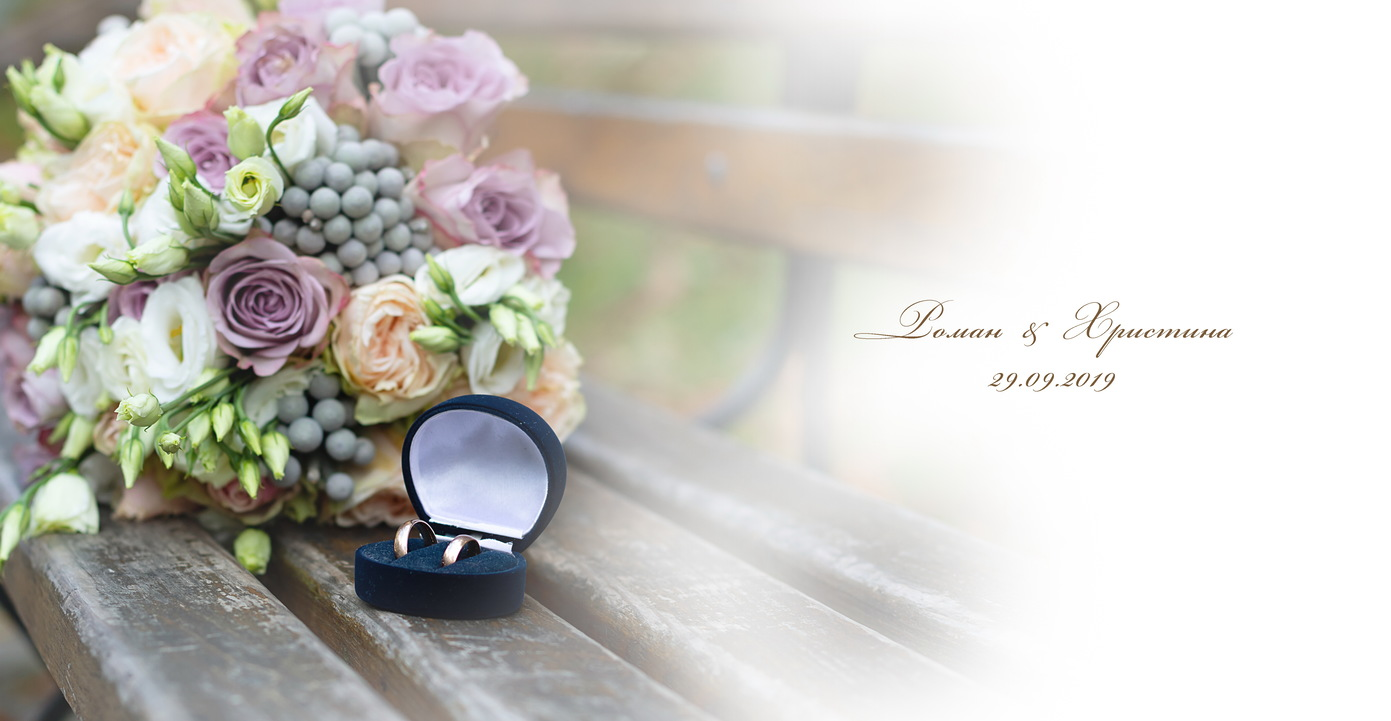
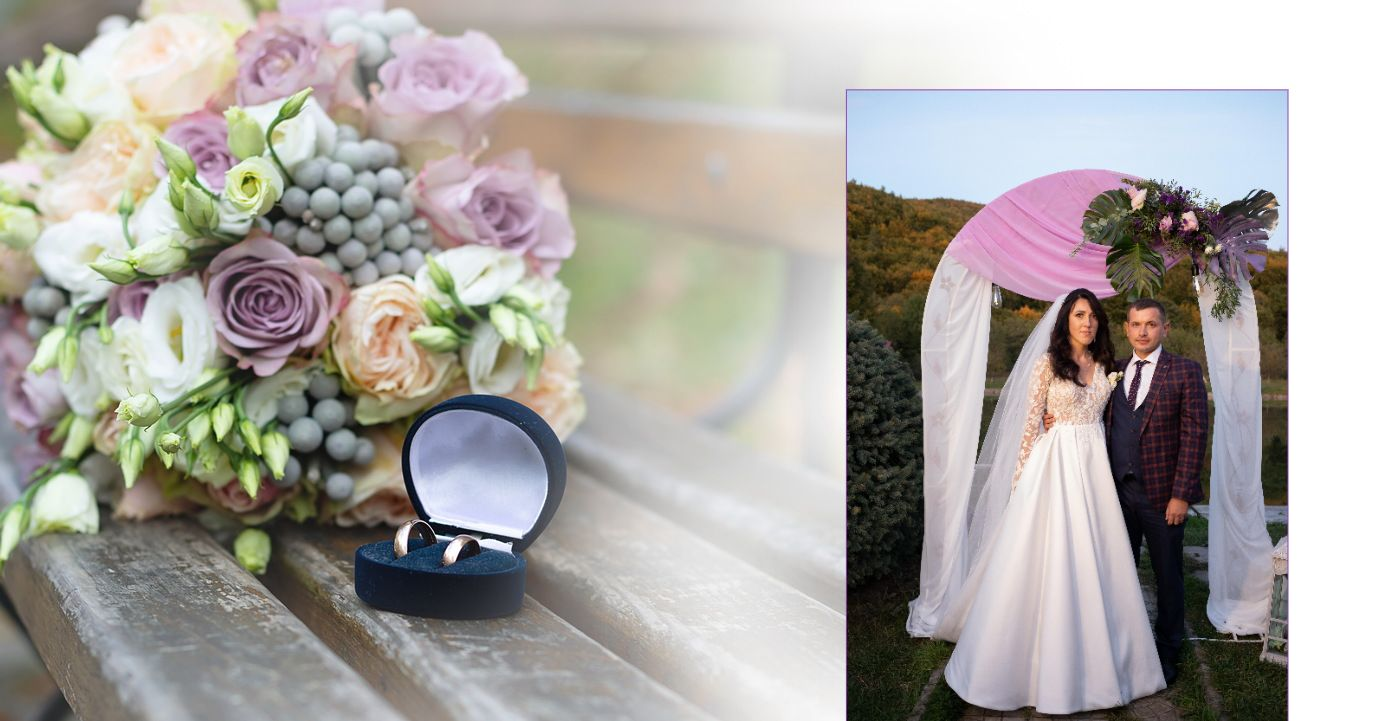
fix error

Changed region(s): [[0.5873, 0.1221, 0.9274, 1.0]]

diff --git a/index.min.html b/index.min.html
@@ -1,1 +1,1 @@
-<!DOCTYPE html><html lang="en"><head><meta charset="UTF-8"/><meta name="viewport"content="width=device-width, initial-scale=1.0"/><title>Khrystyna & Roman 29.09.2019</title></head><body><div class="flipbook-viewport"><div class="container"><div class="flipbook"><div class="page"data-background-image-url="pages/resize/1.jpg"></div><div class="double"data-background-image-url="pages/resize/01.jpg"></div><div class="double"data-background-image-url="pages/resize/02.jpg"></div><div class="double"data-background-image-url="pages/resize/03.jpg"></div><div class="double"data-background-image-url="pages/resize/04.jpg"></div><div class="double"data-background-image-url="pages/resize/05.jpg"></div><div class="double"data-background-image-url="pages/resize/06.jpg"></div><div class="double"data-background-image-url="pages/resize/07.jpg"></div><div class="double"data-background-image-url="pages/resize/08.jpg"></div><div class="double"data-background-image-url="pages/resize/09.jpg"></div><div class="double"data-background-image-url="pages/resize/10.jpg"></div><div class="double"data-background-image-url="pages/resize/11.jpg"></div><div class="double"data-background-image-url="pages/resize/12.jpg"></div><div class="double"data-background-image-url="pages/resize/13.jpg"></div><div class="double"data-background-image-url="pages/resize/14.jpg"></div><div class="double"data-background-image-url="pages/resize/15.jpg"></div><div class="double"data-background-image-url="pages/resize/16.jpg"></div><div class="double"data-background-image-url="pages/resize/17.jpg"></div><div class="double"data-background-image-url="pages/resize/18.jpg"></div><div class="double"data-background-image-url="pages/resize/19.jpg"></div><div class="double"data-background-image-url="pages/resize/20.jpg"></div><div class="double"data-background-image-url="pages/resize/21.jpg"></div><div class="double"data-background-image-url="pages/resize/22.jpg"></div><div class="double"data-background-image-url="pages/resize/23.jpg"></div><div class="page"data-background-image-url="pages/resize/24.jpg"></div></div></div></div><a href="https://matviy.pp.ua">Khrystyna & Roman Matviy</a><script src="js/jquery.min.1.7.js"></script><script src="js/lazyload.min.js"></script><script src="js/modernizr.2.5.3.min.js"></script><script>function loadApp(){ var flipbook = $(".flipbook"); if (flipbook.width() == 0 || flipbook.height() == 0){ setTimeout(loadApp, 10); return;} $(".flipbook .double").scissor(); $(".flipbook").turn({ elevation:50, gradients:true, autoCenter:true});} yepnope({ test:Modernizr.csstransforms, yep:["js/turn.min.js"], nope:["js/turn.html4.min.js"], both:["js/scissor.min.js", "css/double-page.min.css"], complete:loadApp}); </script></body></html>
+<!DOCTYPE html><html lang="en"><head><meta charset="UTF-8"/><meta name="viewport"content="width=device-width, initial-scale=1.0"/><title>Khrystyna & Roman 29.09.2019</title></head><body><div class="flipbook-viewport"><div class="container"><div class="flipbook"><div class="page"data-background-image-url="pages/resize/cover.jpg"></div><div class="double"data-background-image-url="pages/resize/01.jpg"></div><div class="double"data-background-image-url="pages/resize/02.jpg"></div><div class="double"data-background-image-url="pages/resize/03.jpg"></div><div class="double"data-background-image-url="pages/resize/04.jpg"></div><div class="double"data-background-image-url="pages/resize/05.jpg"></div><div class="double"data-background-image-url="pages/resize/06.jpg"></div><div class="double"data-background-image-url="pages/resize/07.jpg"></div><div class="double"data-background-image-url="pages/resize/08.jpg"></div><div class="double"data-background-image-url="pages/resize/09.jpg"></div><div class="double"data-background-image-url="pages/resize/10.jpg"></div><div class="double"data-background-image-url="pages/resize/11.jpg"></div><div class="double"data-background-image-url="pages/resize/12.jpg"></div><div class="double"data-background-image-url="pages/resize/13.jpg"></div><div class="double"data-background-image-url="pages/resize/14.jpg"></div><div class="double"data-background-image-url="pages/resize/15.jpg"></div><div class="double"data-background-image-url="pages/resize/16.jpg"></div><div class="double"data-background-image-url="pages/resize/17.jpg"></div><div class="double"data-background-image-url="pages/resize/18.jpg"></div><div class="double"data-background-image-url="pages/resize/19.jpg"></div><div class="double"data-background-image-url="pages/resize/20.jpg"></div><div class="double"data-background-image-url="pages/resize/21.jpg"></div><div class="double"data-background-image-url="pages/resize/22.jpg"></div><div class="double"data-background-image-url="pages/resize/23.jpg"></div><div class="page"data-background-image-url="pages/resize/24.jpg"></div></div></div></div><a href="https://matviy.pp.ua">Khrystyna & Roman Matviy</a><script src="js/jquery.min.1.7.js"></script><script src="js/lazyload.min.js"></script><script src="js/modernizr.2.5.3.min.js"></script><script>function loadApp(){ var flipbook = $(".flipbook"); if (flipbook.width() == 0 || flipbook.height() == 0){ setTimeout(loadApp, 10); return;} $(".flipbook .double").scissor(); $(".flipbook").turn({ elevation:50, gradients:true, autoCenter:true});} yepnope({ test:Modernizr.csstransforms, yep:["js/turn.min.js"], nope:["js/turn.html4.min.js"], both:["js/scissor.min.js", "css/double-page.min.css"], complete:loadApp}); </script></body></html>

diff --git a/index.html b/index.html
@@ -11,7 +11,7 @@
         <div class="flipbook">
           <div
             class="page"
-            data-background-image-url="pages/resize/1.jpg"
+            data-background-image-url="pages/resize/cover.jpg"
           ></div>
           <div
             class="double"
